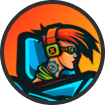
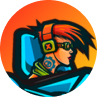
feat: use border for player img

diff --git a/packages/client/src/pages/Leaderboard/Leaderboard.scss b/packages/client/src/pages/Leaderboard/Leaderboard.scss
@@ -6,7 +6,9 @@
   &__logo {
     display: block;
     margin: 0 auto 44px auto;
+
     max-width: 255px;
+    height: 124px;
   }
 
   &__title {
@@ -74,6 +76,9 @@
         &__avatar {
           width: 97px;
           height: 97px;
+
+          border: 4px solid $c_default-border;
+          border-radius: 50%;
         }
 
         &__login {

diff --git a/packages/client/src/scss/vars.scss b/packages/client/src/scss/vars.scss
@@ -14,6 +14,8 @@ $text-color-muted: #f5f5f5;
 // colors
 $c_default-background: #010101;
 
+$c_default-border: #313131;
+
 $c_button: $primary-color;
 $c_button-top: #d9eca2;
 $c_button-bottom: #53650b;
